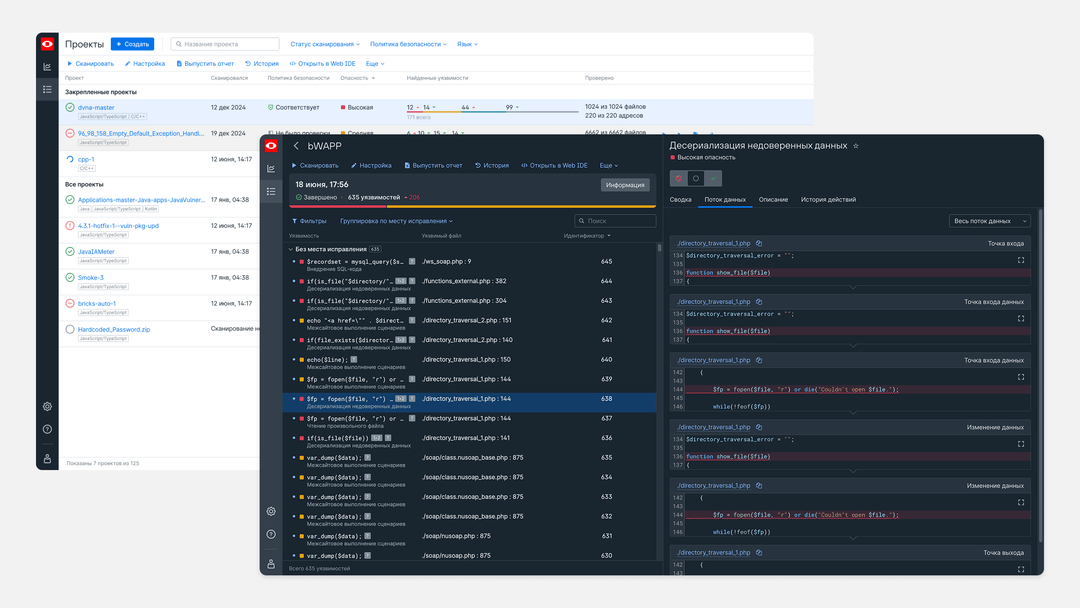
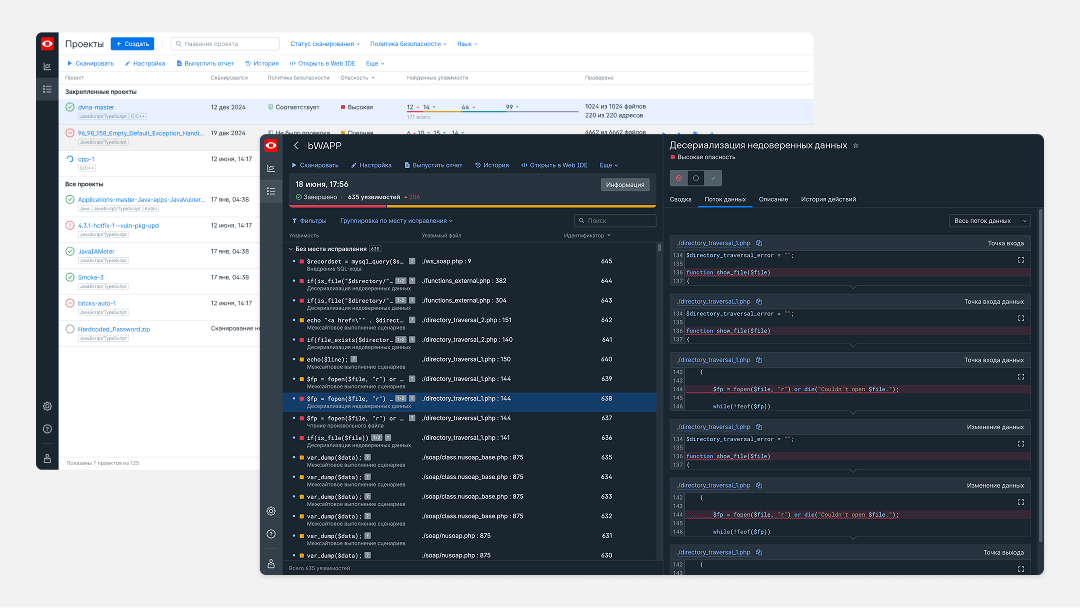
WIP CSS changes

diff --git a/css/dark.css b/css/dark.css
@@ -3,7 +3,7 @@
   --_colors---fg-tertiary: #717171;
   --_colors---bg-primary: rgb(32, 32, 32);
   --_colors---fg-secondary: #a9a9a9;
-  --_colors---bg-secondary: #292929;
+  --_colors---bg-secondary: #2a2a2a;
   --_colors---state-hover: #ffffff0d;
   --_colors---state-active: #ffffff17;
   --_colors---link-active: #01477f;
